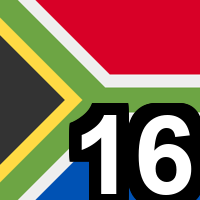
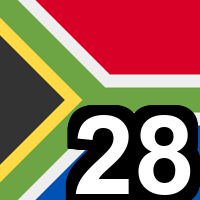
feat: unify flags
unify flags to match commonly used killfeed flag sources

diff --git a/README.md b/README.md
@@ -6,10 +6,11 @@ Customize your PUBG killfeed with clear, recognizable country flags!
 
 ## Available Versions
 
-| Version               | Description                                                      |
-|-----------------------|------------------------------------------------------------------|
-| **Observer**          | Original country flags without numbers                           |
-| **Observer_Numbered** | Country flags with large team numbers for quick identification  |
+| Version               | Description                                                      | Download Link                                           |
+|-----------------------|------------------------------------------------------------------|---------------------------------------------------------|
+| **Observer**          | Original country flags without numbers                           | [Download Observer (No Numbers)](https://github.com/fekher-turki/PUBG-Killfeed-Flags-By-TF2wo/Observer.zip) |
+| **Observer_Numbered** | Country flags with large team numbers for quick identification  | [Download Observer_Numbered (With Numbers)](https://github.com/fekher-turki/PUBG-Killfeed-Flags-By-TF2wo/Observer_Numbered.zip) |
+
 ---
 
 ## About
@@ -39,40 +40,42 @@ The folder must contain:
 
 ## Teams Overview
 
-| Team # | Country Name    | Short Name | Main Color | Original Flag (no number)                    | Numbered Flag (with number)                     |
-|--------|-----------------|------------|------------|----------------------------------------------|------------------------------------------------|
-| 1      | China           | CHN        | #DE2910    | ![CHN](Observer/TeamIcon/CHN.png)           | ![CHN](Observer_Numbered/TeamIcon/CHN.png)     |
-| 2      | United States   | USA        | #3C3B6E    | ![USA](Observer/TeamIcon/USA.png)           | ![USA](Observer_Numbered/TeamIcon/USA.png)     |
-| 3      | United Kingdom  | GBR        | #00247D    | ![GBR](Observer/TeamIcon/GBR.png)           | ![GBR](Observer_Numbered/TeamIcon/GBR.png)     |
-| 4      | France          | FRA        | #0055A4    | ![FRA](Observer/TeamIcon/FRA.png)           | ![FRA](Observer_Numbered/TeamIcon/FRA.png)     |
-| 5      | Germany         | GER        | #000000    | ![GER](Observer/TeamIcon/GER.png)           | ![GER](Observer_Numbered/TeamIcon/GER.png)     |
-| 6      | Brazil          | BRA        | #009C3B    | ![BRA](Observer/TeamIcon/BRA.png)           | ![BRA](Observer_Numbered/TeamIcon/BRA.png)     |
-| 7      | Japan           | JPN        | #BC002D    | ![JPN](Observer/TeamIcon/JPN.png)           | ![JPN](Observer_Numbered/TeamIcon/JPN.png)     |
-| 8      | Russia          | RUS        | #D52B1E    | ![RUS](Observer/TeamIcon/RUS.png)           | ![RUS](Observer_Numbered/TeamIcon/RUS.png)     |
-| 9      | South Korea     | KOR        | #C60C30    | ![KOR](Observer/TeamIcon/KOR.png)           | ![KOR](Observer_Numbered/TeamIcon/KOR.png)     |
-| 10     | Canada          | CAN        | #FF0000    | ![CAN](Observer/TeamIcon/CAN.png)           | ![CAN](Observer_Numbered/TeamIcon/CAN.png)     |
-| 11     | Spain           | ESP        | #AA151B    | ![ESP](Observer/TeamIcon/ESP.png)           | ![ESP](Observer_Numbered/TeamIcon/ESP.png)     |
-| 12     | Argentina       | ARG        | #74ACDF    | ![ARG](Observer/TeamIcon/ARG.png)           | ![ARG](Observer_Numbered/TeamIcon/ARG.png)     |
-| 13     | Turkey          | TUR        | #E30A17    | ![TUR](Observer/TeamIcon/TUR.png)           | ![TUR](Observer_Numbered/TeamIcon/TUR.png)     |
-| 14     | Sweden          | SWE        | #006AA7    | ![SWE](Observer/TeamIcon/SWE.png)           | ![SWE](Observer_Numbered/TeamIcon/SWE.png)     |
-| 15     | Portugal        | POR        | #006600    | ![POR](Observer/TeamIcon/POR.png)           | ![POR](Observer_Numbered/TeamIcon/POR.png)     |
-| 16     | South Africa    | RSA        | #007847    | ![RSA](Observer/TeamIcon/RSA.png)           | ![RSA](Observer_Numbered/TeamIcon/RSA.png)     |
-| 17     | Tunisia         | TUN        | #E70013    | ![TUN](Observer/TeamIcon/TUN.png)           | ![TUN](Observer_Numbered/TeamIcon/TUN.png)     |
-| 18     | India           | IND        | #FF9933    | ![IND](Observer/TeamIcon/IND.png)           | ![IND](Observer_Numbered/TeamIcon/IND.png)     |
-| 19     | Italy           | ITA        | #009246    | ![ITA](Observer/TeamIcon/ITA.png)           | ![ITA](Observer_Numbered/TeamIcon/ITA.png)     |
-| 20     | Australia       | AUS        | #00008B    | ![AUS](Observer/TeamIcon/AUS.png)           | ![AUS](Observer_Numbered/TeamIcon/AUS.png)     |
-| 21     | Egypt           | EGY        | #CE1126    | ![EGY](Observer/TeamIcon/EGY.png)           | ![EGY](Observer_Numbered/TeamIcon/EGY.png)     |
-| 22     | Ukraine         | UKR        | #0057B7    | ![UKR](Observer/TeamIcon/UKR.png)           | ![UKR](Observer_Numbered/TeamIcon/UKR.png)     |
-| 23     | Saudi Arabia    | KSA        | #006C35    | ![KSA](Observer/TeamIcon/KSA.png)           | ![KSA](Observer_Numbered/TeamIcon/KSA.png)     |
-| 24     | Greece          | GRE        | #0D5EAF    | ![GRE](Observer/TeamIcon/GRE.png)           | ![GRE](Observer_Numbered/TeamIcon/GRE.png)     |
-| 25     | Switzerland     | SUI        | #FF0000    | ![SUI](Observer/TeamIcon/SUI.png)           | ![SUI](Observer_Numbered/TeamIcon/SUI.png)     |
-| 26     | Poland          | POL        | #DC143C    | ![POL](Observer/TeamIcon/POL.png)           | ![POL](Observer_Numbered/TeamIcon/POL.png)     |
-| 27     | Denmark         | DEN        | #C60C30    | ![DEN](Observer/TeamIcon/DEN.png)           | ![DEN](Observer_Numbered/TeamIcon/DEN.png)     |
-| 28     | Norway          | NOR        | #BA0C2F    | ![NOR](Observer/TeamIcon/NOR.png)           | ![NOR](Observer_Numbered/TeamIcon/NOR.png)     |
-| 29     | Finland         | FIN        | #002F6C    | ![FIN](Observer/TeamIcon/FIN.png)           | ![FIN](Observer_Numbered/TeamIcon/FIN.png)     |
-| 30     | Algeria         | ALG        | #006233    | ![ALG](Observer/TeamIcon/ALG.png)           | ![ALG](Observer_Numbered/TeamIcon/ALG.png)     |
-| 31     | Jamaica         | JAM        | #007847    | ![JAM](Observer/TeamIcon/JAM.png)           | ![JAM](Observer_Numbered/TeamIcon/JAM.png)     |
-| 32     | Qatar           | QAT        | #8A1538    | ![QAT](Observer/TeamIcon/QAT.png)           | ![QAT](Observer_Numbered/TeamIcon/QAT.png)     |
+> **Note:** The order of the first 24 flags has been unified to match commonly used killfeed flag sources for consistency and easier identification.
+
+| Team # | Country Name   | Short Name | Main Color | Original Flag (no number)                 | Numbered Flag (with number)                    |
+|--------|----------------|------------|------------|-------------------------------------------|------------------------------------------------|
+| 1      | Canada         | CAN        | #FF0000    | ![CAN](Observer/TeamIcon/CAN.png)         | ![CAN](Observer_Numbered/TeamIcon/CAN.png)     |
+| 2      | Poland         | POL        | #DC143C    | ![POL](Observer/TeamIcon/POL.png)         | ![POL](Observer_Numbered/TeamIcon/POL.png)     |
+| 3      | Finland        | FIN        | #002F6C    | ![FIN](Observer/TeamIcon/FIN.png)         | ![FIN](Observer_Numbered/TeamIcon/FIN.png)     |
+| 4      | Denmark        | DEN        | #C60C30    | ![DEN](Observer/TeamIcon/DEN.png)         | ![DEN](Observer_Numbered/TeamIcon/DEN.png)     |
+| 5      | Brazil         | BRA        | #009C3B    | ![BRA](Observer/TeamIcon/BRA.png)         | ![BRA](Observer_Numbered/TeamIcon/BRA.png)     |
+| 6      | Germany        | GER        | #000000    | ![GER](Observer/TeamIcon/GER.png)         | ![GER](Observer_Numbered/TeamIcon/GER.png)     |
+| 7      | France         | FRA        | #0055A4    | ![FRA](Observer/TeamIcon/FRA.png)         | ![FRA](Observer_Numbered/TeamIcon/FRA.png)     |
+| 8      | United Kingdom | GBR        | #00247D    | ![GBR](Observer/TeamIcon/GBR.png)         | ![GBR](Observer_Numbered/TeamIcon/GBR.png)     |
+| 9      | Sweden         | SWE        | #006AA7    | ![SWE](Observer/TeamIcon/SWE.png)         | ![SWE](Observer_Numbered/TeamIcon/SWE.png)     |
+| 10     | Norway         | NOR        | #BA0C2F    | ![NOR](Observer/TeamIcon/NOR.png)         | ![NOR](Observer_Numbered/TeamIcon/NOR.png)     |
+| 11     | Spain          | ESP        | #AA151B    | ![ESP](Observer/TeamIcon/ESP.png)         | ![ESP](Observer_Numbered/TeamIcon/ESP.png)     |
+| 12     | Austria        | AUT        | #ED2939    | ![AUT](Observer/TeamIcon/AUT.png)         | ![AUT](Observer_Numbered/TeamIcon/AUT.png)     |
+| 13     | Turkey         | TUR        | #E30A17    | ![TUR](Observer/TeamIcon/TUR.png)         | ![TUR](Observer_Numbered/TeamIcon/TUR.png)     |
+| 14     | United States  | USA        | #3C3B6E    | ![USA](Observer/TeamIcon/USA.png)         | ![USA](Observer_Numbered/TeamIcon/USA.png)     |
+| 15     | Portugal       | POR        | #006600    | ![POR](Observer/TeamIcon/POR.png)         | ![POR](Observer_Numbered/TeamIcon/POR.png)     |
+| 16     | Argentina      | ARG        | #74ACDF    | ![ARG](Observer/TeamIcon/ARG.png)         | ![ARG](Observer_Numbered/TeamIcon/ARG.png)     |
+| 17     | South Korea    | KOR        | #C60C30    | ![KOR](Observer/TeamIcon/KOR.png)         | ![KOR](Observer_Numbered/TeamIcon/KOR.png)     |
+| 18     | Japan          | JPN        | #BC002D    | ![JPN](Observer/TeamIcon/JPN.png)         | ![JPN](Observer_Numbered/TeamIcon/JPN.png)     |
+| 19     | Australia      | AUS        | #00008B    | ![AUS](Observer/TeamIcon/AUS.png)         | ![AUS](Observer_Numbered/TeamIcon/AUS.png)     |
+| 20     | China          | CHN        | #DE2910    | ![CHN](Observer/TeamIcon/CHN.png)         | ![CHN](Observer_Numbered/TeamIcon/CHN.png)     |
+| 21     | Croatia        | CRO        | #F00000    | ![CRO](Observer/TeamIcon/CRO.png)         | ![CRO](Observer_Numbered/TeamIcon/CRO.png)     |
+| 22     | Greece         | GRE        | #0D5EAF    | ![GRE](Observer/TeamIcon/GRE.png)         | ![GRE](Observer_Numbered/TeamIcon/GRE.png)     |
+| 23     | Ukraine        | UKR        | #0057B7    | ![UKR](Observer/TeamIcon/UKR.png)         | ![UKR](Observer_Numbered/TeamIcon/UKR.png)     |
+| 24     | Italy          | ITA        | #009246    | ![ITA](Observer/TeamIcon/ITA.png)         | ![ITA](Observer_Numbered/TeamIcon/ITA.png)     |
+| 25     | Tunisia        | TUN        | #E70013    | ![TUN](Observer/TeamIcon/TUN.png)         | ![TUN](Observer_Numbered/TeamIcon/TUN.png)     |
+| 26     | Russia         | RUS        | #D52B1E    | ![RUS](Observer/TeamIcon/RUS.png)         | ![RUS](Observer_Numbered/TeamIcon/RUS.png)     |
+| 27     | Switzerland    | SUI        | #FF0000    | ![SUI](Observer/TeamIcon/SUI.png)         | ![SUI](Observer_Numbered/TeamIcon/SUI.png)     |
+| 28     | South Africa   | RSA        | #007847    | ![RSA](Observer/TeamIcon/RSA.png)         | ![RSA](Observer_Numbered/TeamIcon/RSA.png)     |
+| 29     | Saudi Arabia   | KSA        | #006C35    | ![KSA](Observer/TeamIcon/KSA.png)         | ![KSA](Observer_Numbered/TeamIcon/KSA.png)     |
+| 30     | Algeria        | ALG        | #006233    | ![ALG](Observer/TeamIcon/ALG.png)         | ![ALG](Observer_Numbered/TeamIcon/ALG.png)     |
+| 31     | Jamaica        | JAM        | #007847    | ![JAM](Observer/TeamIcon/JAM.png)         | ![JAM](Observer_Numbered/TeamIcon/JAM.png)     |
+| 32     | India          | IND        | #FF9933    | ![IND](Observer/TeamIcon/IND.png)         | ![IND](Observer_Numbered/TeamIcon/IND.png)     |
 
 ---
 
